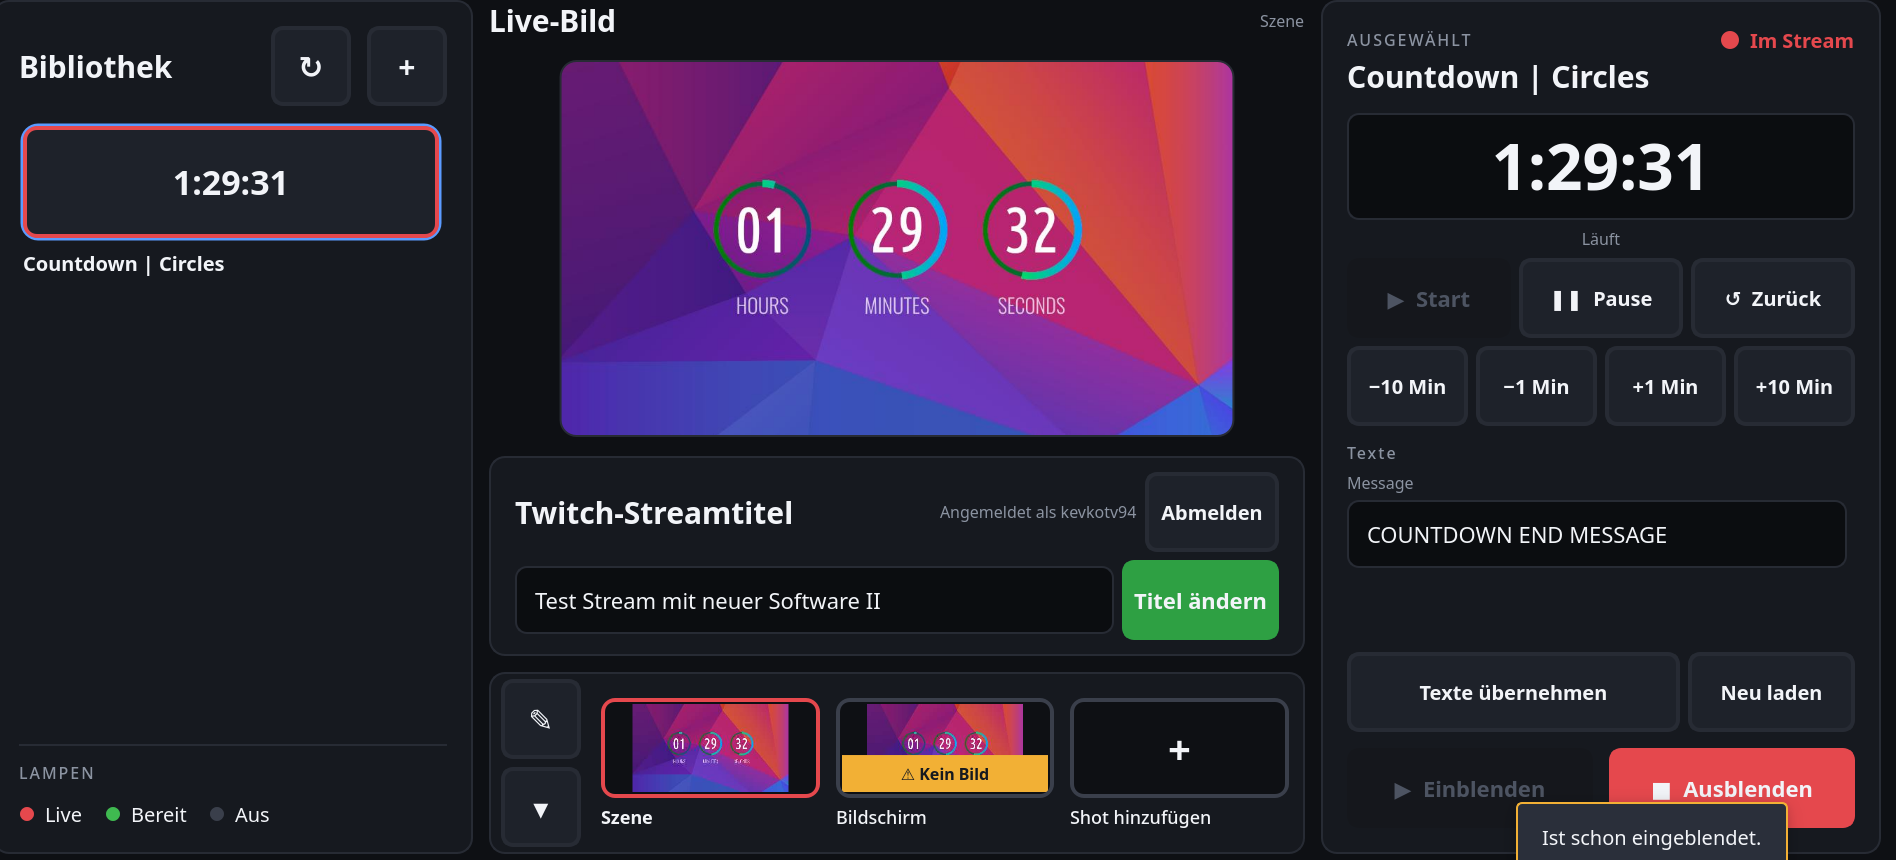
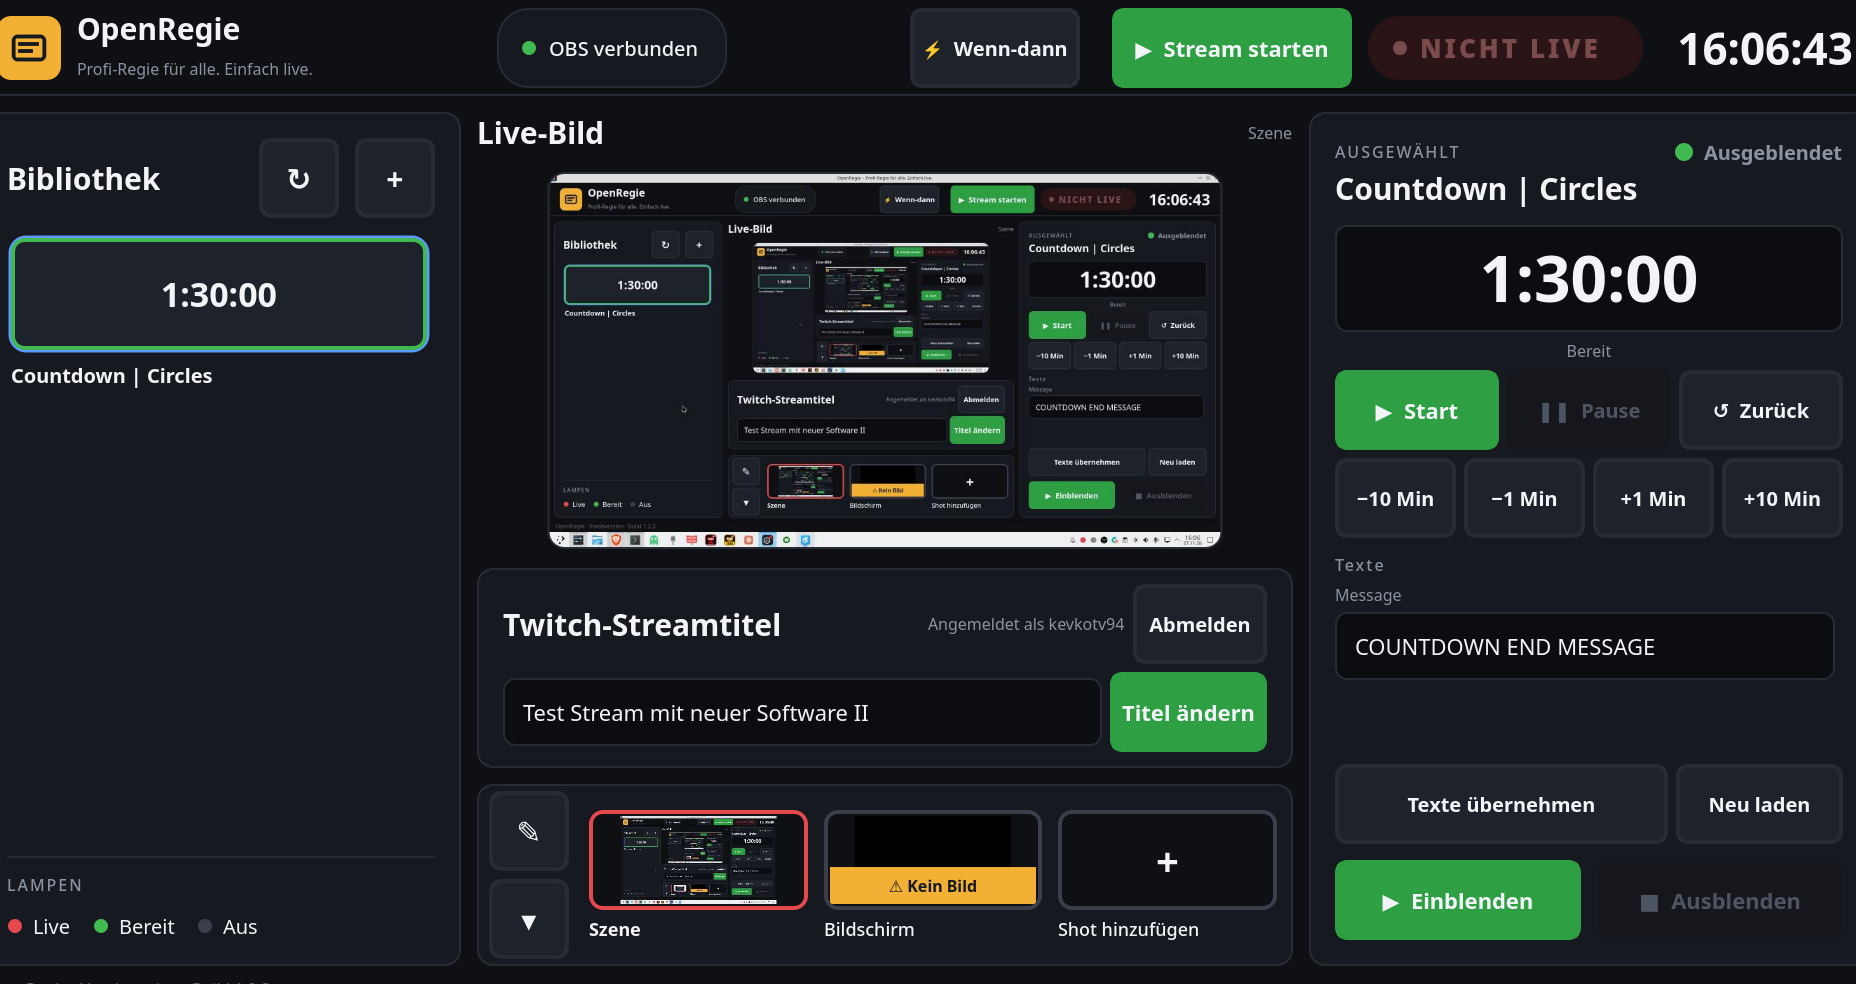
README: frischer Screenshot von Build 1.2.3 mit „Stream starten“ (als Pre-Alpha markiert)

diff --git a/README.md b/README.md
@@ -9,9 +9,9 @@
 
 🇩🇪 [Deutsch](#deutsch) · 🇬🇧 [English](#english)
 
-![OpenRegie – das Regiepult (Pre-Alpha, Build 1.2.2) / the control room (pre-alpha, build 1.2.2)](docs/bildschirmfoto.png)
-*Pre-Alpha · Build 1.2.2 – das Regiepult mit Countdown, Live-Bild, Twitch-Titel und Shots /
-the control room with countdown, live picture, Twitch title and shots*
+![OpenRegie – das Regiepult (Pre-Alpha, Build 1.2.3) / the control room (pre-alpha, build 1.2.3)](docs/bildschirmfoto.png)
+*Pre-Alpha · Build 1.2.3 – das Regiepult mit „Stream starten“, Countdown, Live-Bild, Twitch-Titel und Shots /
+the control room with “start stream”, countdown, live picture, Twitch title and shots*
 
 ---
 

diff --git a/ROADMAP.md b/ROADMAP.md
@@ -128,7 +128,7 @@ Fehlerbericht: Countdown steht auf 00:00 und lässt sich nicht bedienen.
 - [x] Kopfleiste: Knopf, ON AIR und Uhr fest breit – nichts rutscht beim Umschalten unter dem Zeiger weg
 - [x] Geprüft: Unit-Tests 3× je 315/315, echtes OBS 33.0.3 (`werkzeuge/test_stream_mit_echtem_obs.py`)
       3× je 73/73 ohne OBS-Fehlerfenster, echtes Uno 28/28
-- [ ] Frischer Screenshot fürs README
+- [x] Frischer Screenshot fürs README (mit dem neuen Knopf, als Pre-Alpha markiert)
 - [ ] Ein echter Test-Stream zu Twitch mit dem neuen Knopf durch Kevin
 
 ### Build 1.3

diff --git a/CHANGELOG.md b/CHANGELOG.md
@@ -59,6 +59,7 @@ und du bist live – OBS musst du dafür nicht mehr anfassen. Läuft der Stream,
   wurden nie richtig weggeräumt und flogen dann alle auf einmal raus – das stürzte ab. Die Testhilfe
   räumt jetzt laufend auf, so wie das echte Programm. Zwei wackelige Countdown-Tests sind dabei auch
   gleich stabil geworden.
+- Frischer Screenshot im README – mit dem neuen Knopf oben rechts, als Pre-Alpha markiert.
 
 ## Build 1.2.2 – Countdown wieder flott, „Shot hinzufügen“ im eigenen Fenster · 23.11.2026
 
